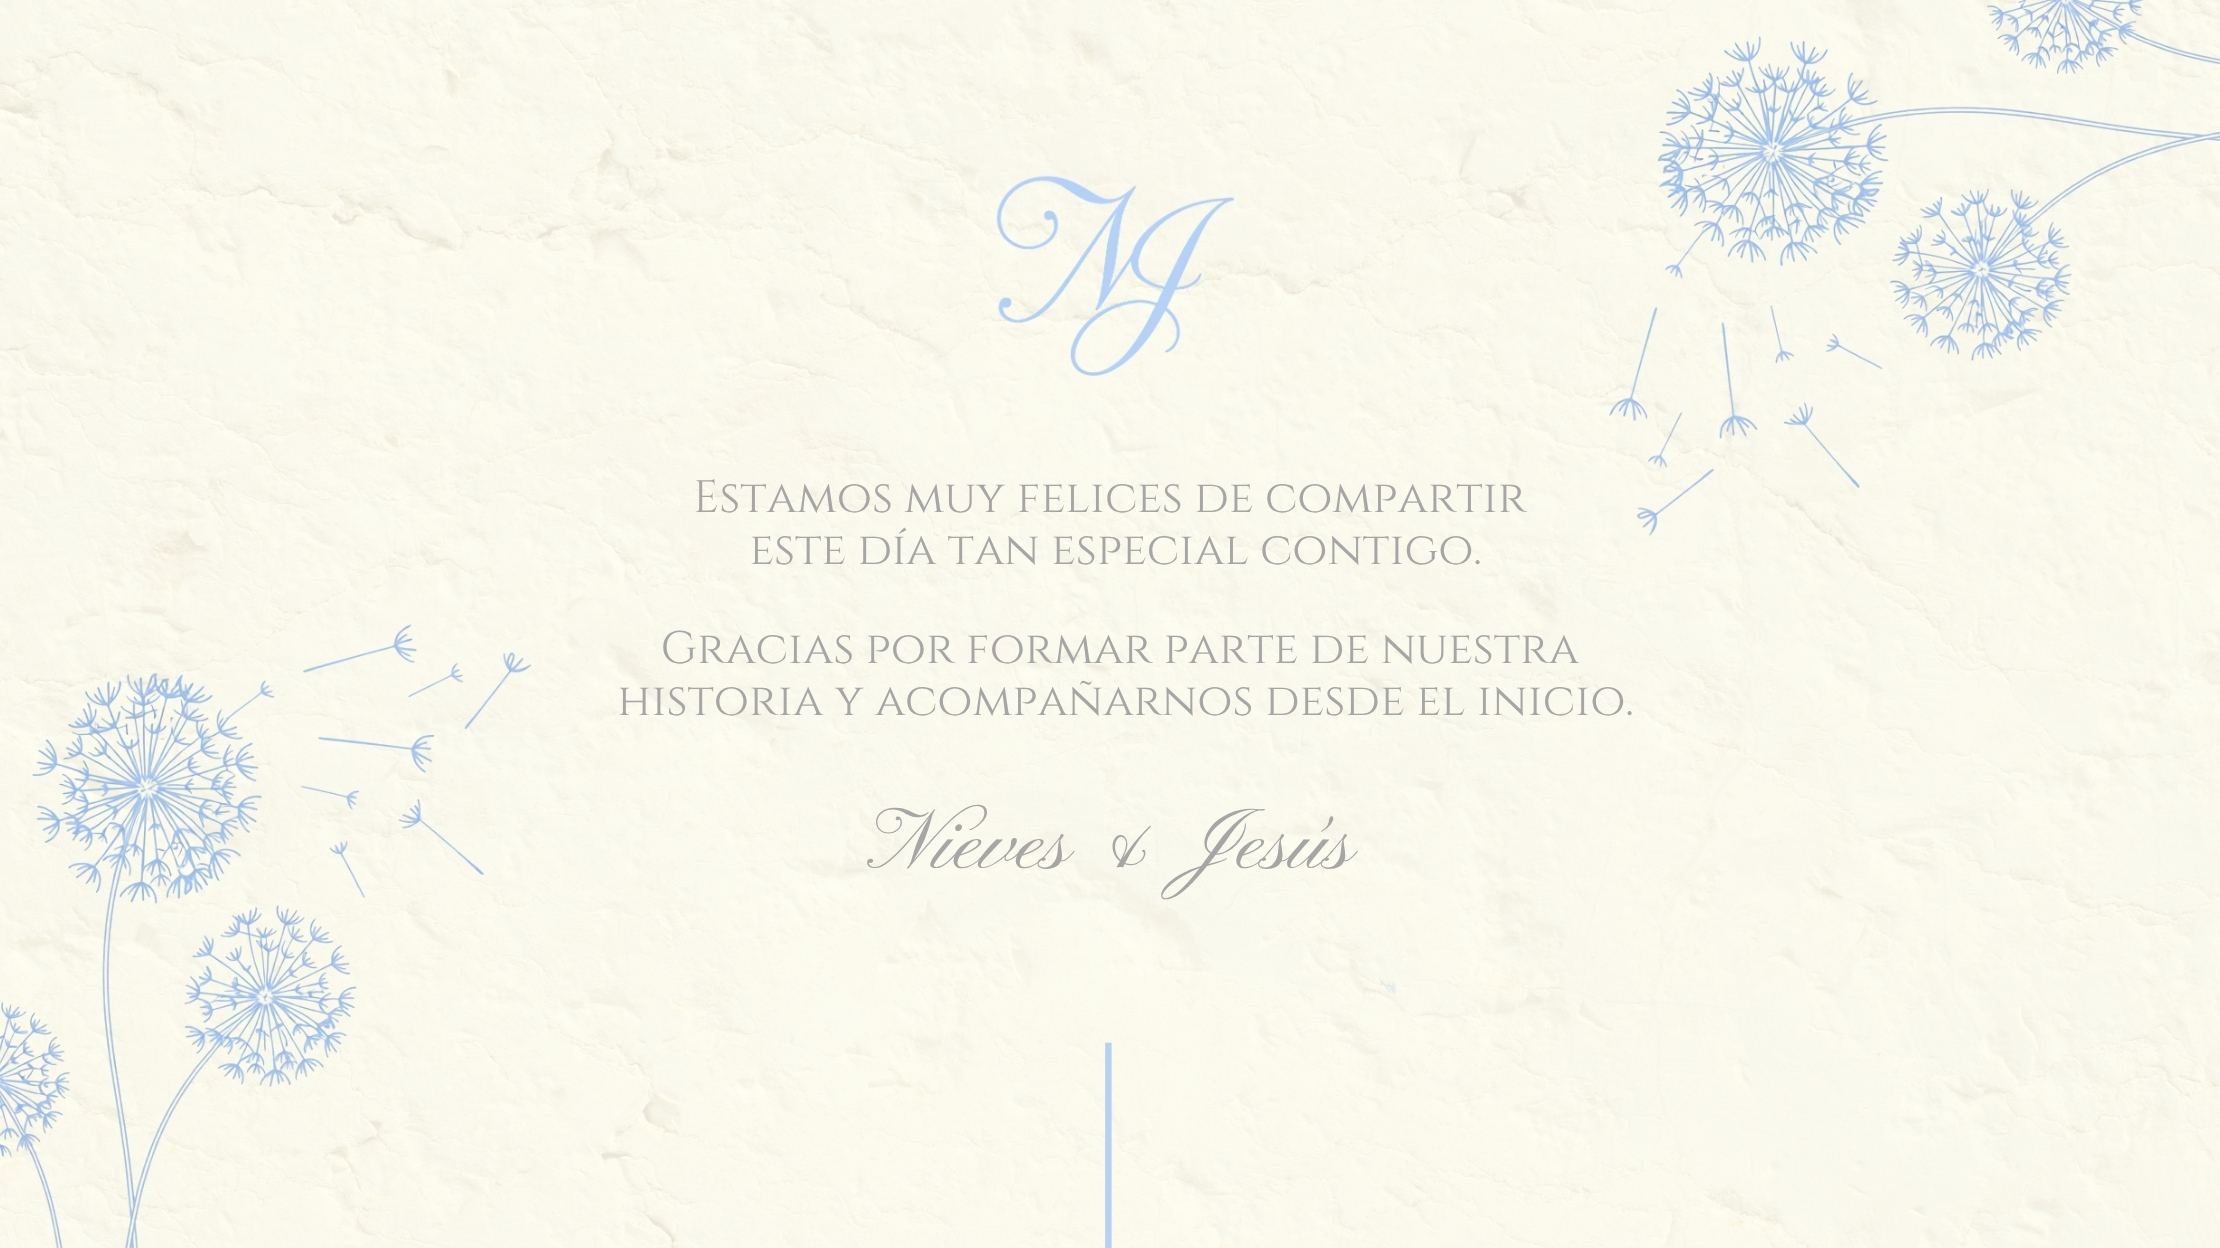
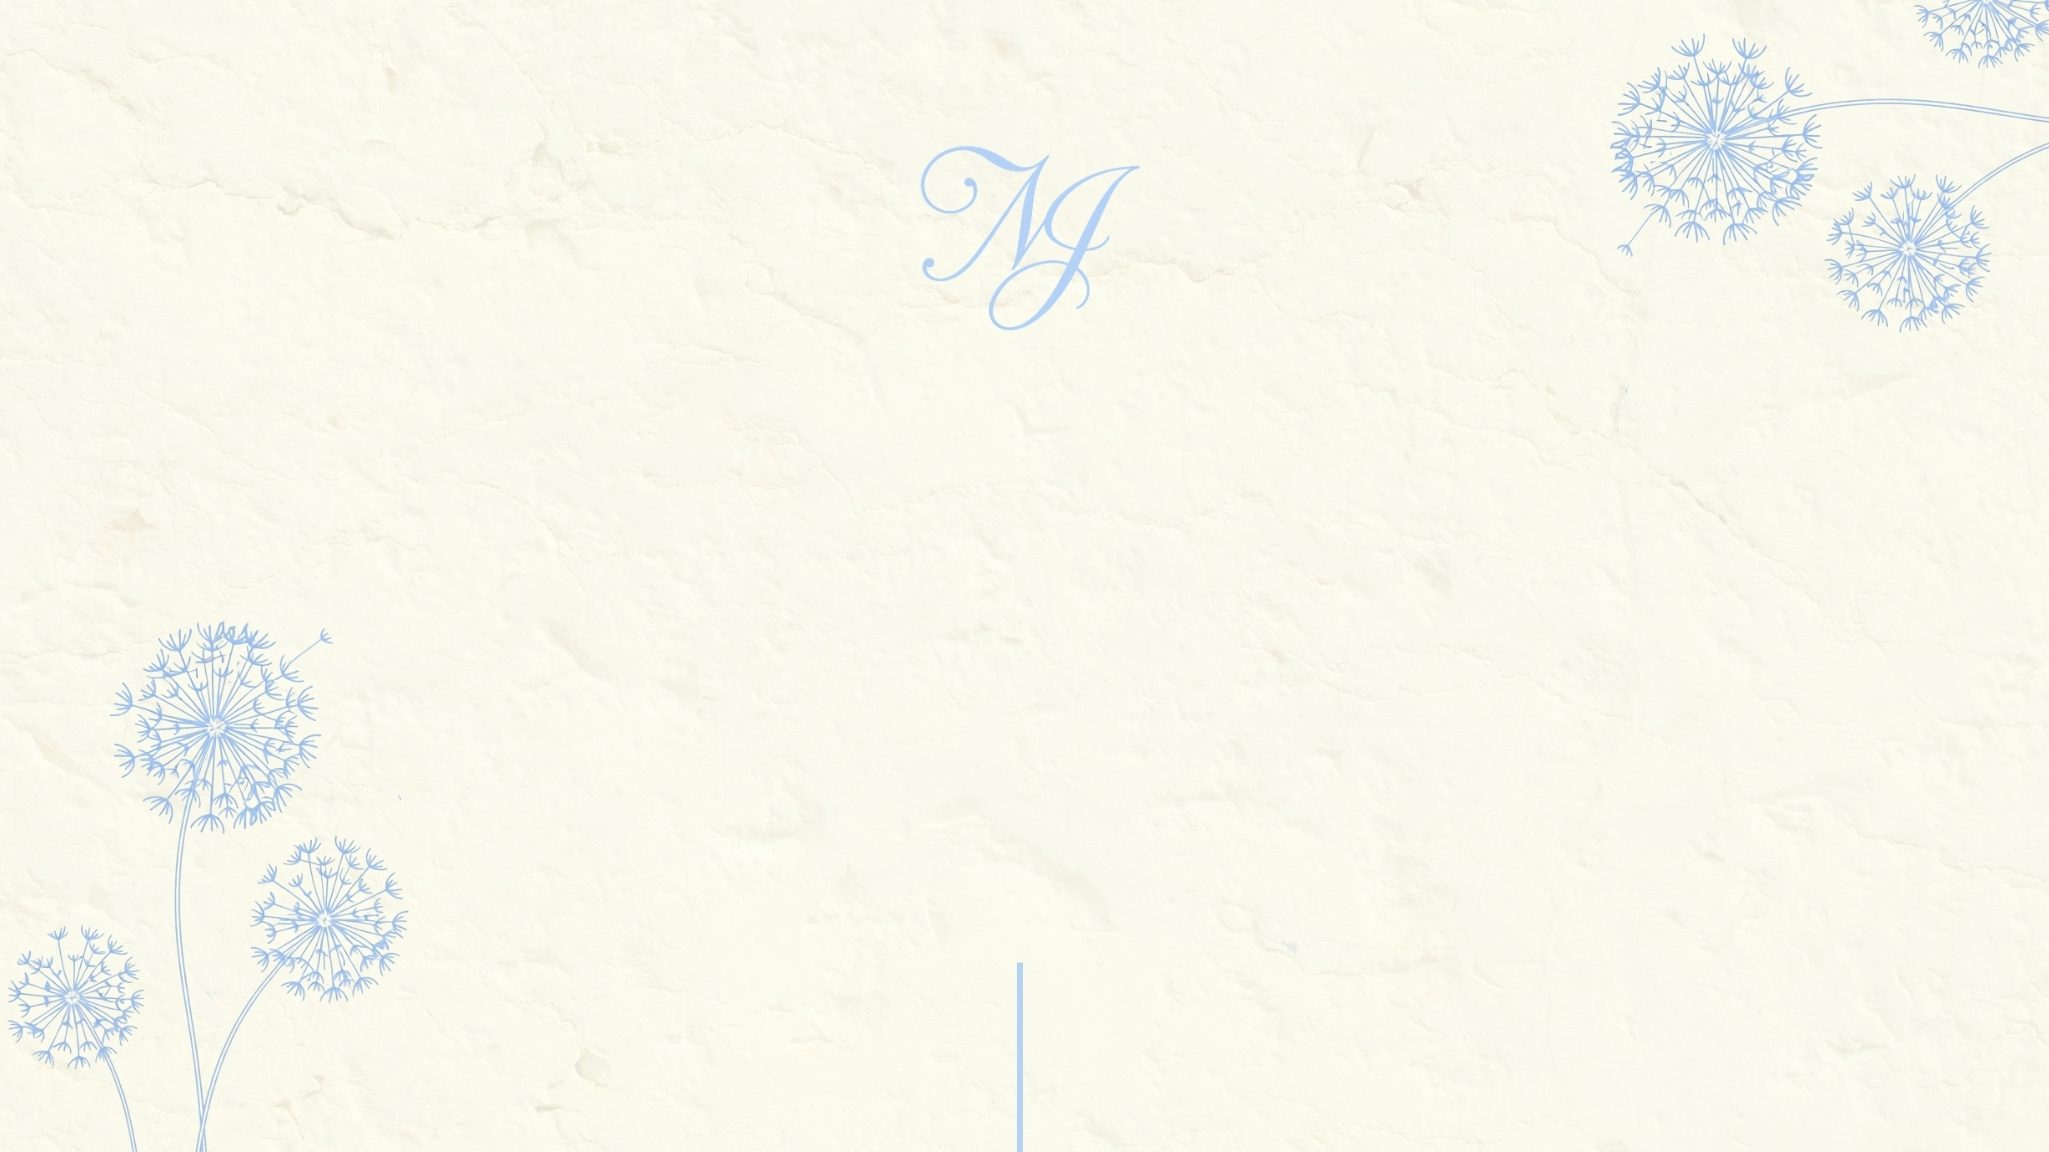
feat(preview-only): hoja 2 clean background + HTML text with Pily typography

diff --git a/inv/nieves-y-jesus/preview.html b/inv/nieves-y-jesus/preview.html
@@ -97,8 +97,39 @@ body{
   min-height: 100svh;
   background: url('/inv/nieves-y-jesus/assets/hoja2-canva.jpg') center center / cover no-repeat;
   overflow: hidden;
-  display: block;
+  display: flex;
+  flex-direction: column;
+  align-items: center;
+  justify-content: center;
   padding: 0;
+  margin: 0;
+}
+.inv2-content {
+  position: relative;
+  z-index: 2;
+  display: flex;
+  flex-direction: column;
+  align-items: center;
+  text-align: center;
+  gap: clamp(1.6rem, 3.5vh, 2.6rem);
+  /* push below the monogram baked into the background image */
+  margin-top: clamp(6rem, 18vh, 12rem);
+  padding: 0 1.5rem;
+}
+.inv2-text {
+  font-family: 'Cinzel', serif;
+  font-size: clamp(0.85rem, 1.55vw, 1.25rem);
+  letter-spacing: 0.0775em;
+  line-height: 1.9;
+  color: #7d7d75;
+  margin: 0;
+}
+.inv2-names {
+  font-family: 'Pinyon Script', cursive;
+  font-size: clamp(1.9rem, 3.4vw, 2.6rem);
+  letter-spacing: 0.0269em;
+  line-height: 1.2;
+  color: #7d7d75;
   margin: 0;
 }
 /* shared with #padres-section olive branches */
@@ -1646,6 +1677,11 @@ footer{
 <!-- ░░ INVITACIÓN ░░ -->
 <section id="invitacion">
   <div id="nj-seed-overlay" aria-hidden="true"></div>
+  <div class="inv2-content">
+    <p class="inv2-text">Estamos muy felices de compartir<br>este día tan especial contigo.</p>
+    <p class="inv2-text">Gracias por formar parte de nuestra<br>historia y acompañarnos desde el inicio.</p>
+    <p class="inv2-names">Nieves &amp; Jesús</p>
+  </div>
 </section>
 
 <!-- ░░ GARDEN ░░ -->
